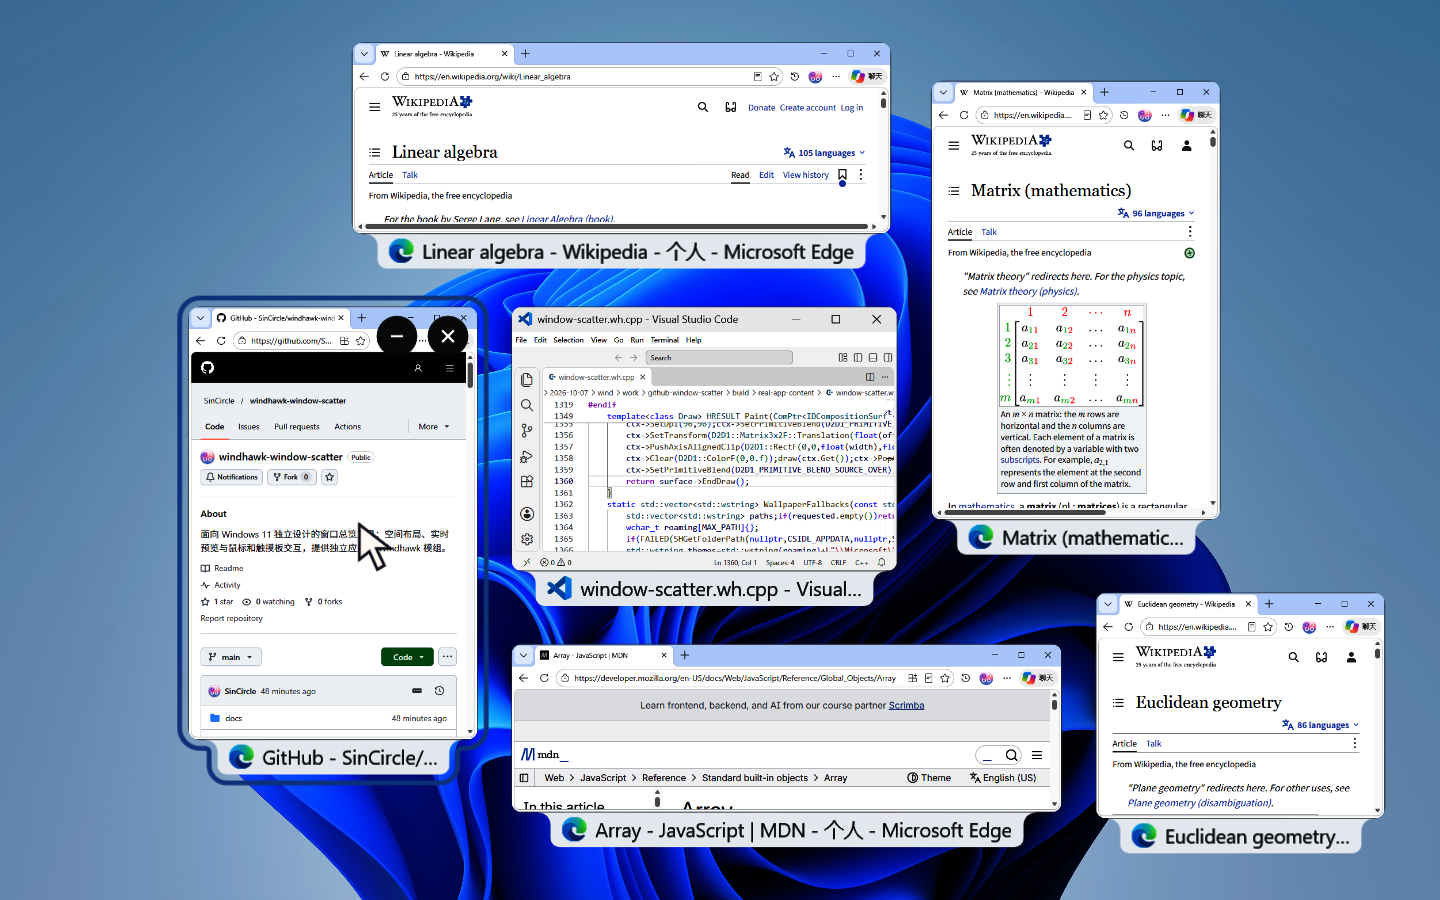
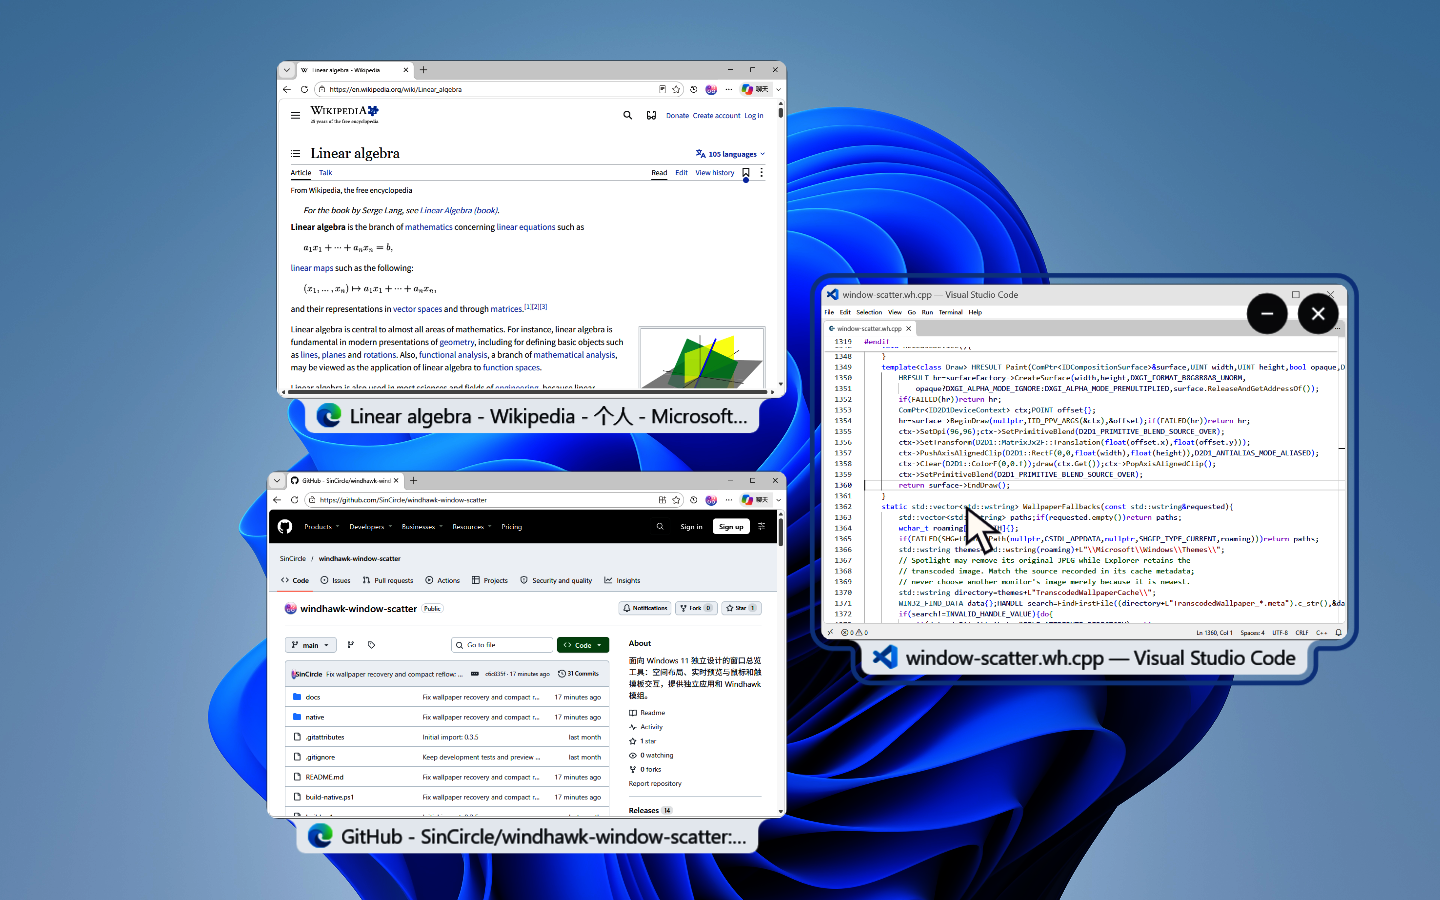
Record larger real app previews in a bounded area and remove gallery captions

diff --git a/docs/media-sources.md b/docs/media-sources.md
@@ -4,11 +4,11 @@
 
 1.0.6 的动图直接录制真实应用窗口：Microsoft Edge 打开公开网页，Visual Studio Code 打开本项目当前版本的 C++ 源码。全部使用浅色主题，应用图标来自相应窗口。没有把截图贴进示意窗口，也没有离线拼接窗口动画。
 
-应用在独立配置和隔离桌面中运行。录制只枚举这次打开的应用窗口；展开、选窗、收回、标题、圆角和阴影使用本版本的生产代码与 Windows 合成器。光标是录制提示层。录制结束后恢复原桌面。
+应用使用独立配置，在当前桌面限定的 1440×900 区域内运行，窗口宽度约 1100 像素，以正常桌面排版展示内容。录制不切换桌面，只枚举这次打开的应用窗口。展开、重排、关闭、最小化、恢复、标题、圆角和阴影由当前版本的生产代码与 Windows 合成器实时绘制；没有另写动画模型。鼠标是录制提示层。每段结束后关闭录制窗口，并恢复先前的前台窗口。
 
-公开内容包括 [Window Scatter 项目](https://github.com/SinCircle/windhawk-window-scatter)、Wikipedia 的 [Linear algebra](https://en.wikipedia.org/wiki/Linear_algebra)、[Matrix](https://en.wikipedia.org/wiki/Matrix_(mathematics))、[Euclidean geometry](https://en.wikipedia.org/wiki/Euclidean_geometry)，以及 [MDN Array 文档](https://developer.mozilla.org/en-US/docs/Web/JavaScript/Reference/Global_Objects/Array)。网页内容、软件界面和商标按各自来源的许可与权利归属；本项目的 MIT 许可不扩展到第三方内容。
+公开内容包括 [Window Scatter 项目](https://github.com/SinCircle/windhawk-window-scatter)、Wikipedia 的 [Linear algebra](https://en.wikipedia.org/wiki/Linear_algebra)和 [Matrix](https://en.wikipedia.org/wiki/Matrix_(mathematics))。网页内容、软件界面和商标按各自来源的许可与权利归属；本项目的 MIT 许可不扩展到第三方内容。
 
-录制背景为 Windows 随附壁纸，其权利归 Microsoft。设置截图来自本项目实际的 WebView2 设置页。已裁去捕获初始化时尚未出画的开头空帧，后续按原始速度播放。GIF 以 50 fps 编码；产品性能测量范围见[性能与验证](performance.md)。
+录制背景为 Windows 随附壁纸，其权利归 Microsoft。设置截图来自本项目实际的 WebView2 设置页。录像按原始速度播放。GIF 保持 16∶10 比例，以 1200×750、50 fps 编码；产品性能测量范围见[性能与验证](performance.md)。
 
 <details>
 <summary>1.0.5 历史素材来源与许可</summary>

diff --git a/README.md b/README.md
@@ -20,10 +20,8 @@
 </p>
 
 <p align="center">
-  <img src="docs/media/layout-mixed.gif" width="960" alt="原生总览展开真实应用并切换到项目仓库">
+  <img src="docs/media/layout-mixed.gif" width="1200" alt="展开真实应用窗口并切回编辑器">
 </p>
-
-<p align="center"><sub>动图由当前程序实录，使用浅色的真实应用窗口与公开内容。<a href="docs/media-sources.md">素材与演示说明</a></sub></p>
 
 ## 快速开始
 
@@ -64,9 +62,10 @@
 
 <table>
   <tr>
-    <td><img src="docs/media/layout-mixed.gif" width="480" alt="真实浏览器和编辑器混合布局"><br>浏览器与编辑器混合布局</td>
-    <td><img src="docs/media/layout-quarters.gif" width="480" alt="使用方向键选择真实网页窗口"><br>方向键选窗</td>
-    <td><img src="docs/media/layout-varied.gif" width="480" alt="不同大小的真实应用窗口"><br>不同大小的窗口</td>
+    <td><img src="docs/media/workflow-new-windows.gif" width="640" alt="打开真实网页窗口后自动重排"></td>
+    <td><img src="docs/media/workflow-close-windows.gif" width="640" alt="连续关闭网页窗口后切回编辑器"></td>
+    <td><img src="docs/media/workflow-minimize-many.gif" width="640" alt="最小化网页窗口，再从底部恢复"></td>
+    <td><img src="docs/media/layout-mixed.gif" width="640" alt="从交错窗口中选择编辑器"></td>
   </tr>
 </table>
 
@@ -136,10 +135,8 @@
 
 macOS 和 Linux 桌面的多任务总览界面是本项目的交互参考。Window Scatter 根据自身的设计目标，独立探索窗口的空间布局、手势选窗、连续重排与最小化恢复，让窗口管理适应 Windows 上的实际使用方式。
 
-预览录制了真实浏览器和 VS Code 窗口，展示公开网页与本项目源码。窗口内容由应用实时绘制，布局与动画由当前程序运行。录制说明见[预览素材说明](docs/media-sources.md)。
-
 ## 更多说明
 
-[常见问题](docs/usage.md) · [性能测试](docs/performance.md) · [编译说明](docs/development.md) · [更新记录](docs/CHANGELOG.md) · [反馈问题](https://github.com/SinCircle/windhawk-window-scatter/issues)
+[常见问题](docs/usage.md) · [性能测试](docs/performance.md) · [编译说明](docs/development.md) · [预览素材说明](docs/media-sources.md) · [更新记录](docs/CHANGELOG.md) · [反馈问题](https://github.com/SinCircle/windhawk-window-scatter/issues)
 
 作者 **SinCircle** · [来源与许可](docs/development.md#来源与许可)
